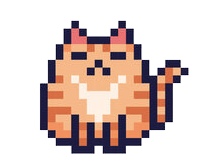
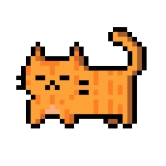
Day 16 Commit Part 3
I changed the image for the cat sprite so that it would match the standing position of the bunny.

diff --git a/main.py b/main.py
@@ -1,5 +1,4 @@
 import pygame
-import os
 import random
 import time
 from bunny import Bunny
@@ -26,7 +25,7 @@ pancake = Pancake(180, 205)
 waffle = Waffle(180, 205)
 paffle = Paffle(180, 205)
 bunny = Bunny(80, 205)
-cat = Cat(400, 215)
+cat = Cat(400, 205)
 ditto = Ditto(210, 5)
 music = pygame.mixer.music.load('music.ogg')
 pygame.mixer.music.play(-1)
@@ -285,7 +284,7 @@ while game_screen:
 
 while end_screen:
     screen.fill((r, g, b))
-    if pancakes_eaten + waffles_eaten > 60:
+    if pancakes_eaten + waffles_eaten > 30:
         display_end_message = my_font.render(end_message, True, (0, 0, 0))
         screen.blit(display_end_message, (140, 175))
 
@@ -294,8 +293,8 @@ while end_screen:
         screen.blit(display_end_message2, (140, 175))
 
     elif pancakes_eaten + waffles_eaten > 10:
-        display_end_message2 = my_font.render(end_message3, True, (0, 0, 0))
-        screen.blit(display_end_message3, (140, 175))
+        display_end_message3 = my_font.render(end_message3, True, (0, 0, 0))
+        screen.blit(display_end_message3, (135, 175))
 
     for event in pygame.event.get():  # User did something
         if event.type == pygame.QUIT:  # If user clicked close

diff --git a/cat.py b/cat.py
@@ -8,7 +8,7 @@ class Cat:
         self.y = y
         self.image = pygame.image.load("cat.png")
         self.image_size = self.image.get_size()
-        scale_size = (self.image_size[0] * .3, self.image_size[1] * .3)
+        scale_size = (self.image_size[0] * .4, self.image_size[1] * .4)
         self.image = pygame.transform.scale(self.image, scale_size)
         self.image_size = self.image.get_size()
         self.rect = pygame.Rect(self.x, self.y, self.image_size[0], self.image_size[1])

diff --git a/pancake.py b/pancake.py
@@ -12,7 +12,7 @@ class Pancake:
         self.image = pygame.transform.scale(self.image, scale_size)
         self.image_size = self.image.get_size()
         self.rect = pygame.Rect(self.x, self.y, self.image_size[0], self.image_size[1])
-        self.delta = .3
+        self.delta = .4
 
     def move_direction(self, direction):
         if direction == "right":

diff --git a/paffle.py b/paffle.py
@@ -12,7 +12,7 @@ class Paffle:
         self.image = pygame.transform.scale(self.image, scale_size)
         self.image_size = self.image.get_size()
         self.rect = pygame.Rect(self.x, self.y, self.image_size[0], self.image_size[1])
-        self.delta = .3
+        self.delta = .4
 
     def move_direction(self, direction):
         if direction == "right":

diff --git a/waffle.py b/waffle.py
@@ -12,7 +12,7 @@ class Waffle:
         self.image = pygame.transform.scale(self.image, scale_size)
         self.image_size = self.image.get_size()
         self.rect = pygame.Rect(self.x, self.y, self.image_size[0], self.image_size[1])
-        self.delta = .3
+        self.delta = .4
 
     def move_direction(self, direction):
         if direction == "right":
